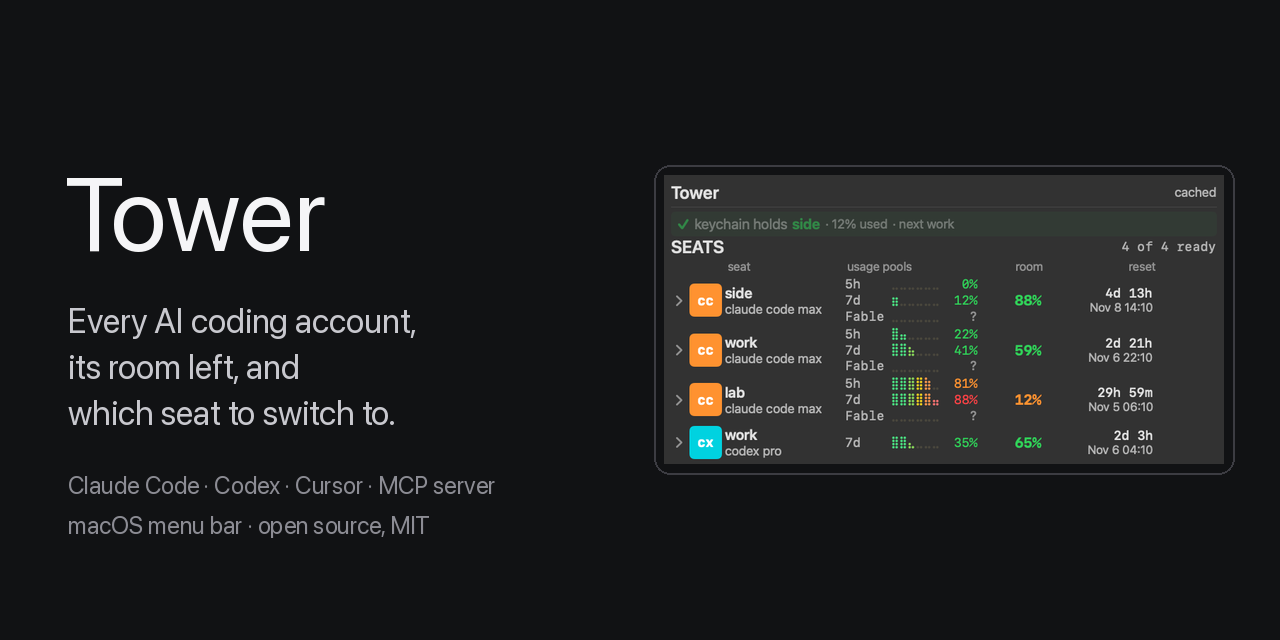
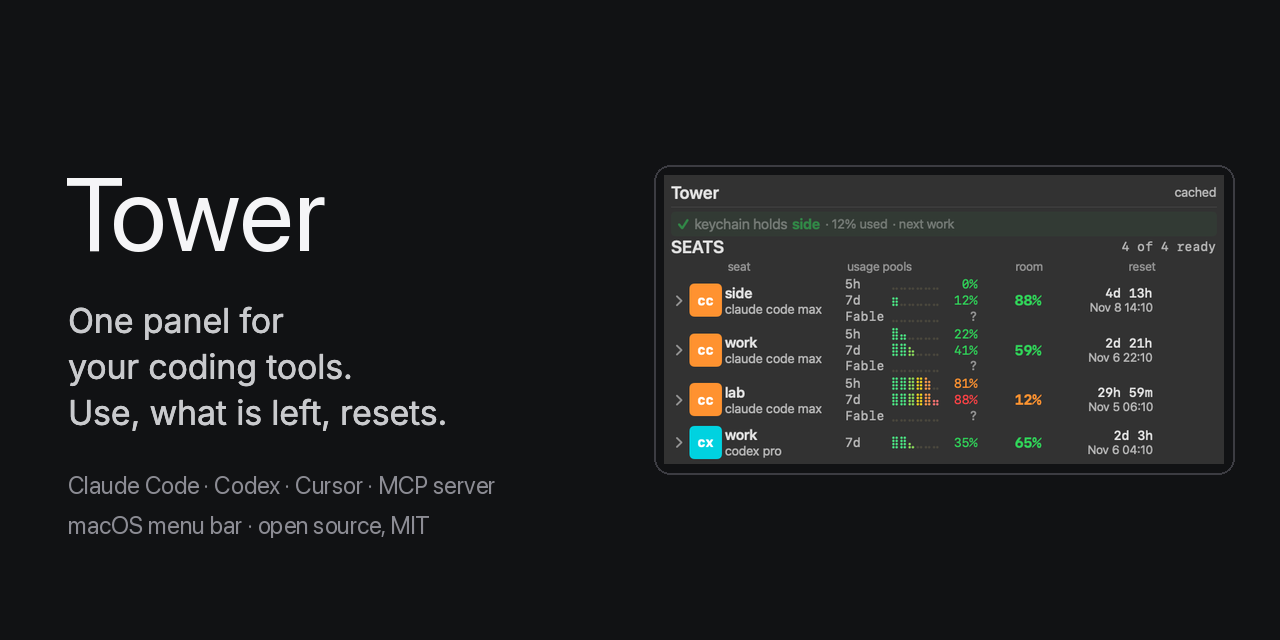
docs: lead the public copy with the usage panel (#52)
* docs: lead the public copy with the usage panel

One menu bar panel for every coding tool: what you used, what is
left and when it resets. Replaces the account-switching angle.
Removes the line that promised unshipped Windows support.

Copy only, no behaviour change.

* docs: say your coding tools, and rebuild the social card

Tower does not read every coding tool, so the headline no longer says
it does. The link card now matches the new copy; its panel image is
unchanged.

---------

Changed region(s): [[0.0312, 0.4688, 0.3125, 0.5938], [0.0312, 0.625, 0.3438, 0.6875]]

diff --git a/docs/index.html b/docs/index.html
@@ -3,9 +3,9 @@
 <head>
 <meta charset="utf-8">
 <meta name="viewport" content="width=device-width,initial-scale=1">
-<title>Tower: which AI coding account has room?</title>
-<meta name="description" content="A macOS menu bar app that shows where every AI coding account stands and which one has room. Built-in MCP server. MIT.">
-<meta property="og:title" content="Tower: which AI coding account has room?">
+<title>Tower: what you used, what is left, when it resets</title>
+<meta name="description" content="One macOS menu bar panel for Claude Code, Codex and Cursor: what you have used, what is left, when it resets. Built-in local MCP server. MIT.">
+<meta property="og:title" content="Tower: what you used, what is left, when it resets">
 <meta property="og:description" content="Usage per window, room left and next reset for every Claude Code account, with Codex and Cursor plans beside them.">
 <meta property="og:image" content="https://raw.githubusercontent.com/yonatangross/tower/main/docs/images/social-preview.png">
 <style>
@@ -45,8 +45,8 @@
 <body>
 <main>
   <div class="mark">TOWER<i></i></div>
-  <h1>Which account has room?</h1>
-  <p class="lede">A macOS menu bar app for people who run several AI coding subscriptions. It shows where every account stands (usage per window, room left, when it resets) and tells you which one to switch to before you get stuck.</p>
+  <h1>One panel for your coding tools</h1>
+  <p class="lede">A macOS menu bar app with one panel for your coding tools: Claude Code, Codex and Cursor. It shows what you have used, what is left and when it resets. Your agent reads the same numbers over MCP, and Tower runs only on your Mac.</p>
   <div class="cta">
     <a class="p" href="https://github.com/yonatangross/tower/releases/latest">Download the latest release</a>
     <a class="s" href="https://github.com/yonatangross/tower">View on GitHub</a>
@@ -62,20 +62,19 @@
 
   <h2>What it does</h2>
   <ul>
-    <li><b>Seats.</b> Real Claude Code usage for each account you have signed into: the 5 hour and weekly windows, the room left, the next reset. Codex and Cursor plans sit beside them.</li>
-    <li><b>Advice.</b> Which seat has the most room, and when to switch.</li>
-    <li><b>MCP server.</b> <code>tower mcp</code> lets Claude Code, Codex, Cursor and other agents ask which account has room.</li>
+    <li><b>Seats.</b> Real Claude Code usage for each account you have signed into: usage per window, what is left, the next reset. Codex and Cursor plans sit beside them.</li>
+    <li><b>Comparison.</b> Which of your seats has the most left.</li>
+    <li><b>MCP server.</b> <code>tower mcp</code> lets Claude Code, Codex, Cursor and other agents read the same numbers.</li>
   </ul>
 
   <h2>Every coding agent</h2>
   <p>Claude Code, Codex, Cursor, Cursor CLI, Devin, Muse, Antigravity and Pi, with the OpenRouter balance and the TypeSafe Jev and Cloudflare Clef balances you enter by hand. Other agents and OpenRouter appear when those tools are installed.</p>
-  <p>Windows support and more harnesses coming next.</p>
 
   <h2>Ask your agent</h2>
   <p><code>tower mcp</code> is a stdio MCP server that runs locally on your Mac. It opens no network port and sends nothing to us or anyone else. Reads never show a Keychain dialog. Plain prompts land on a tool:</p>
   <ul>
-    <li>&ldquo;Which of my accounts has room for a long refactor?&rdquo; <code>tower_room</code></li>
-    <li>&ldquo;Should I stay on this account or switch?&rdquo; <code>tower_advice</code></li>
+    <li>&ldquo;How much is left on each of my accounts?&rdquo; <code>tower_room</code></li>
+    <li>&ldquo;What do you advise for my active account?&rdquo; <code>tower_advice</code></li>
     <li>&ldquo;When does my weekly window reset?&rdquo; <code>tower_resets</code></li>
     <li>&ldquo;Is any reading stale? How fresh is each one?&rdquo; <code>tower_freshness</code></li>
     <li>&ldquo;Give me a rotation plan for the next login.&rdquo; <code>tower_rotate</code></li>
@@ -95,7 +94,7 @@ open ~/Applications/Tower.app</pre>
   <div class="pb">
     <a href="https://github.com/yonatangross/tower/blob/main/docs/playbooks/setup.md">Setup<span>install, first run, Keychain trust</span></a>
     <a href="https://github.com/yonatangross/tower/blob/main/docs/playbooks/multi-account.md">Multi-account<span>several seats, Codex, Cursor</span></a>
-    <a href="https://github.com/yonatangross/tower/blob/main/docs/playbooks/mcp.md">MCP<span>let your agents ask which account has room</span></a>
+    <a href="https://github.com/yonatangross/tower/blob/main/docs/playbooks/mcp.md">MCP<span>let your agents read your usage</span></a>
     <a href="https://github.com/yonatangross/tower/blob/main/docs/playbooks/troubleshooting.md">Troubleshooting<span>Gatekeeper, Intel Macs, odd rows</span></a>
   </div>
 

diff --git a/README.md b/README.md
@@ -1,8 +1,8 @@
 # Tower
 
-A macOS menu bar app for people who run several AI coding subscriptions. It shows
-where every account stands (usage per window, room left, when it resets) and tells
-you which one to switch to before you get stuck.
+A macOS menu bar app with one panel for your coding tools: Claude Code, Codex and
+Cursor. It shows what you have used, what is left and when it resets. Your agent reads
+the same numbers over MCP, and Tower runs only on your Mac.
 
 ![Tower panel with invented demo accounts](docs/images/panel-demo.png)
 
@@ -59,20 +59,20 @@ Then `tower mcp --self-test` (a non zero exit means the server is broken).
 | Playbook | For |
 | --- | --- |
 | [Setup](docs/playbooks/setup.md) | install, first run, Keychain trust, adding accounts |
-| [Multi-account](docs/playbooks/multi-account.md) | several Claude Code seats, Codex, Cursor, switching fast |
-| [MCP](docs/playbooks/mcp.md) | let Claude Code, Codex or Cursor ask which account has room |
+| [Multi-account](docs/playbooks/multi-account.md) | several Claude Code seats, Codex, Cursor |
+| [MCP](docs/playbooks/mcp.md) | let Claude Code, Codex or Cursor read your usage |
 | [Troubleshooting](docs/playbooks/troubleshooting.md) | Gatekeeper, Intel Macs, build errors, odd rows |
 | [Uninstall](docs/playbooks/uninstall.md) | remove the app and everything it stored |
 
 ## What it does
 
-- **Seats.** Real Claude Code usage for each account you have signed into: the
-  5 hour and weekly windows, the room left, and the next reset. Codex and Cursor
+- **Seats.** Real Claude Code usage for each account you have signed into: usage
+  per window, what is left, and the next reset. Codex and Cursor
   plans sit beside them.
-- **Advice.** Which seat has the most room, and when to switch.
+- **Comparison.** Which of your seats has the most left.
 - **MCP server.** `tower mcp` answers the same questions over the Model Context
-  Protocol, so any agent (Claude Code, Codex, Cursor and others) can ask which
-  account has room. See [docs/mcp-surface.md](docs/mcp-surface.md).
+  Protocol, so any agent (Claude Code, Codex, Cursor and others) can read the
+  same numbers. See [docs/mcp-surface.md](docs/mcp-surface.md).
 - **Extras.** OpenRouter balance, agent lanes (Muse, Devin, the Cursor CLI,
   Antigravity, and Pi with its spend this month and today as a share of the
   OpenRouter budget) and live Claude Code sessions, when those tools are present.
@@ -197,7 +197,7 @@ agent prompts are in the [MCP playbook](docs/playbooks/mcp.md).
 
 | Tools | What they answer |
 | --- | --- |
-| `tower_advice`, `tower_room`, `tower_rotate` | stay or switch, which seat has room, a login plan |
+| `tower_advice`, `tower_room`, `tower_rotate` | advice on the active seat, what is left per seat, a login plan |
 | `tower_status`, `tower_accounts`, `tower_account` | every account, or one, with its usage windows |
 | `tower_resets`, `tower_freshness`, `tower_alerts` | reset times, how fresh each reading is, threshold state |
 | `tower_seats`, `tower_lanes`, `tower_sessions` | remembered seats, agent lanes, running Claude Code sessions |
@@ -226,9 +226,9 @@ result, from the invented demo store:
 
 The full list, with every field, is [docs/mcp-surface.md](docs/mcp-surface.md).
 
-## Tip: switch accounts in two clicks
+## Tip: signing into another seat
 
-Switching seats means signing Claude Code into another account. Add a passkey to
+Using another seat means signing Claude Code into that account. Add a passkey to
 each account you use (in the account's security settings) and keep one browser
 profile per account. A login is then `/login`, pick the profile, confirm the
 passkey. `tower rotate` names the seat to sign into next and, when it knows it,

diff --git a/docs/playbooks/mcp.md b/docs/playbooks/mcp.md
@@ -1,7 +1,7 @@
 # MCP playbook
 
 `tower mcp` is a stdio MCP server inside the Tower binary. Any agent that speaks
-MCP (Claude Code, Codex, Cursor and others) can ask it which account has room.
+MCP (Claude Code, Codex, Cursor and others) can read the same numbers from it.
 The full tool list is [docs/mcp-surface.md](../mcp-surface.md).
 
 ## 1. Register it
@@ -52,7 +52,7 @@ Plain prompts that work, and the tool each one lands on:
 
 | Ask your agent | Tool |
 | --- | --- |
-| "Which of my accounts has room for a long refactor?" | `tower_room` |
+| "How much is left on each of my accounts?" | `tower_room` |
 | "Should I stay on this account or switch?" | `tower_advice` |
 | "When does my weekly window reset?" | `tower_resets` |
 | "Is any reading stale? How fresh is each one?" | `tower_freshness` |
@@ -73,7 +73,7 @@ room on its binding window, stop and tell me which seat tower_advice names.
 
 ## What it will not do
 
-- Log in or switch accounts. Switching is always your `/login`.
+- Log you in to any account. That is always your `/login`.
 - Send anything off your Mac except the providers' own usage calls.
 - Write without saying so: the four write tools (`tower_refresh`,
   `tower_forget_seats`, `tower_config_set`, `tower_alert_ack`) are annotated,

diff --git a/AGENTS.md b/AGENTS.md
@@ -4,8 +4,8 @@ Instructions for AI coding agents (Claude Code, Codex, Cursor and others) that i
 Tower for a user or work in this repository.
 
 Tower is a macOS menu bar app for Apple silicon that shows the usage limits of the
-user's Claude Code, Codex, Cursor and OpenRouter accounts, and tells them which account
-to switch to. The same binary is a CLI (`tower`) and a local stdio MCP server
+user's Claude Code, Codex, Cursor and OpenRouter accounts: what is used, what is left and
+when it resets. The same binary is a CLI (`tower`) and a local stdio MCP server
 (`tower mcp`). It is not a hosted service: it runs on the user's Mac and sends nothing to
 its authors. Its only network requests go to the providers' own usage APIs.
 

diff --git a/docs/playbooks/multi-account.md b/docs/playbooks/multi-account.md
@@ -1,7 +1,6 @@
 # Multi-account playbook
 
-How Tower sees several Claude Code seats, plus Codex and Cursor, and how to
-switch between seats quickly.
+How Tower sees several Claude Code seats, plus Codex and Cursor.
 
 Check first that running several subscriptions fits each provider's terms.
 Tower does not decide that for you.
